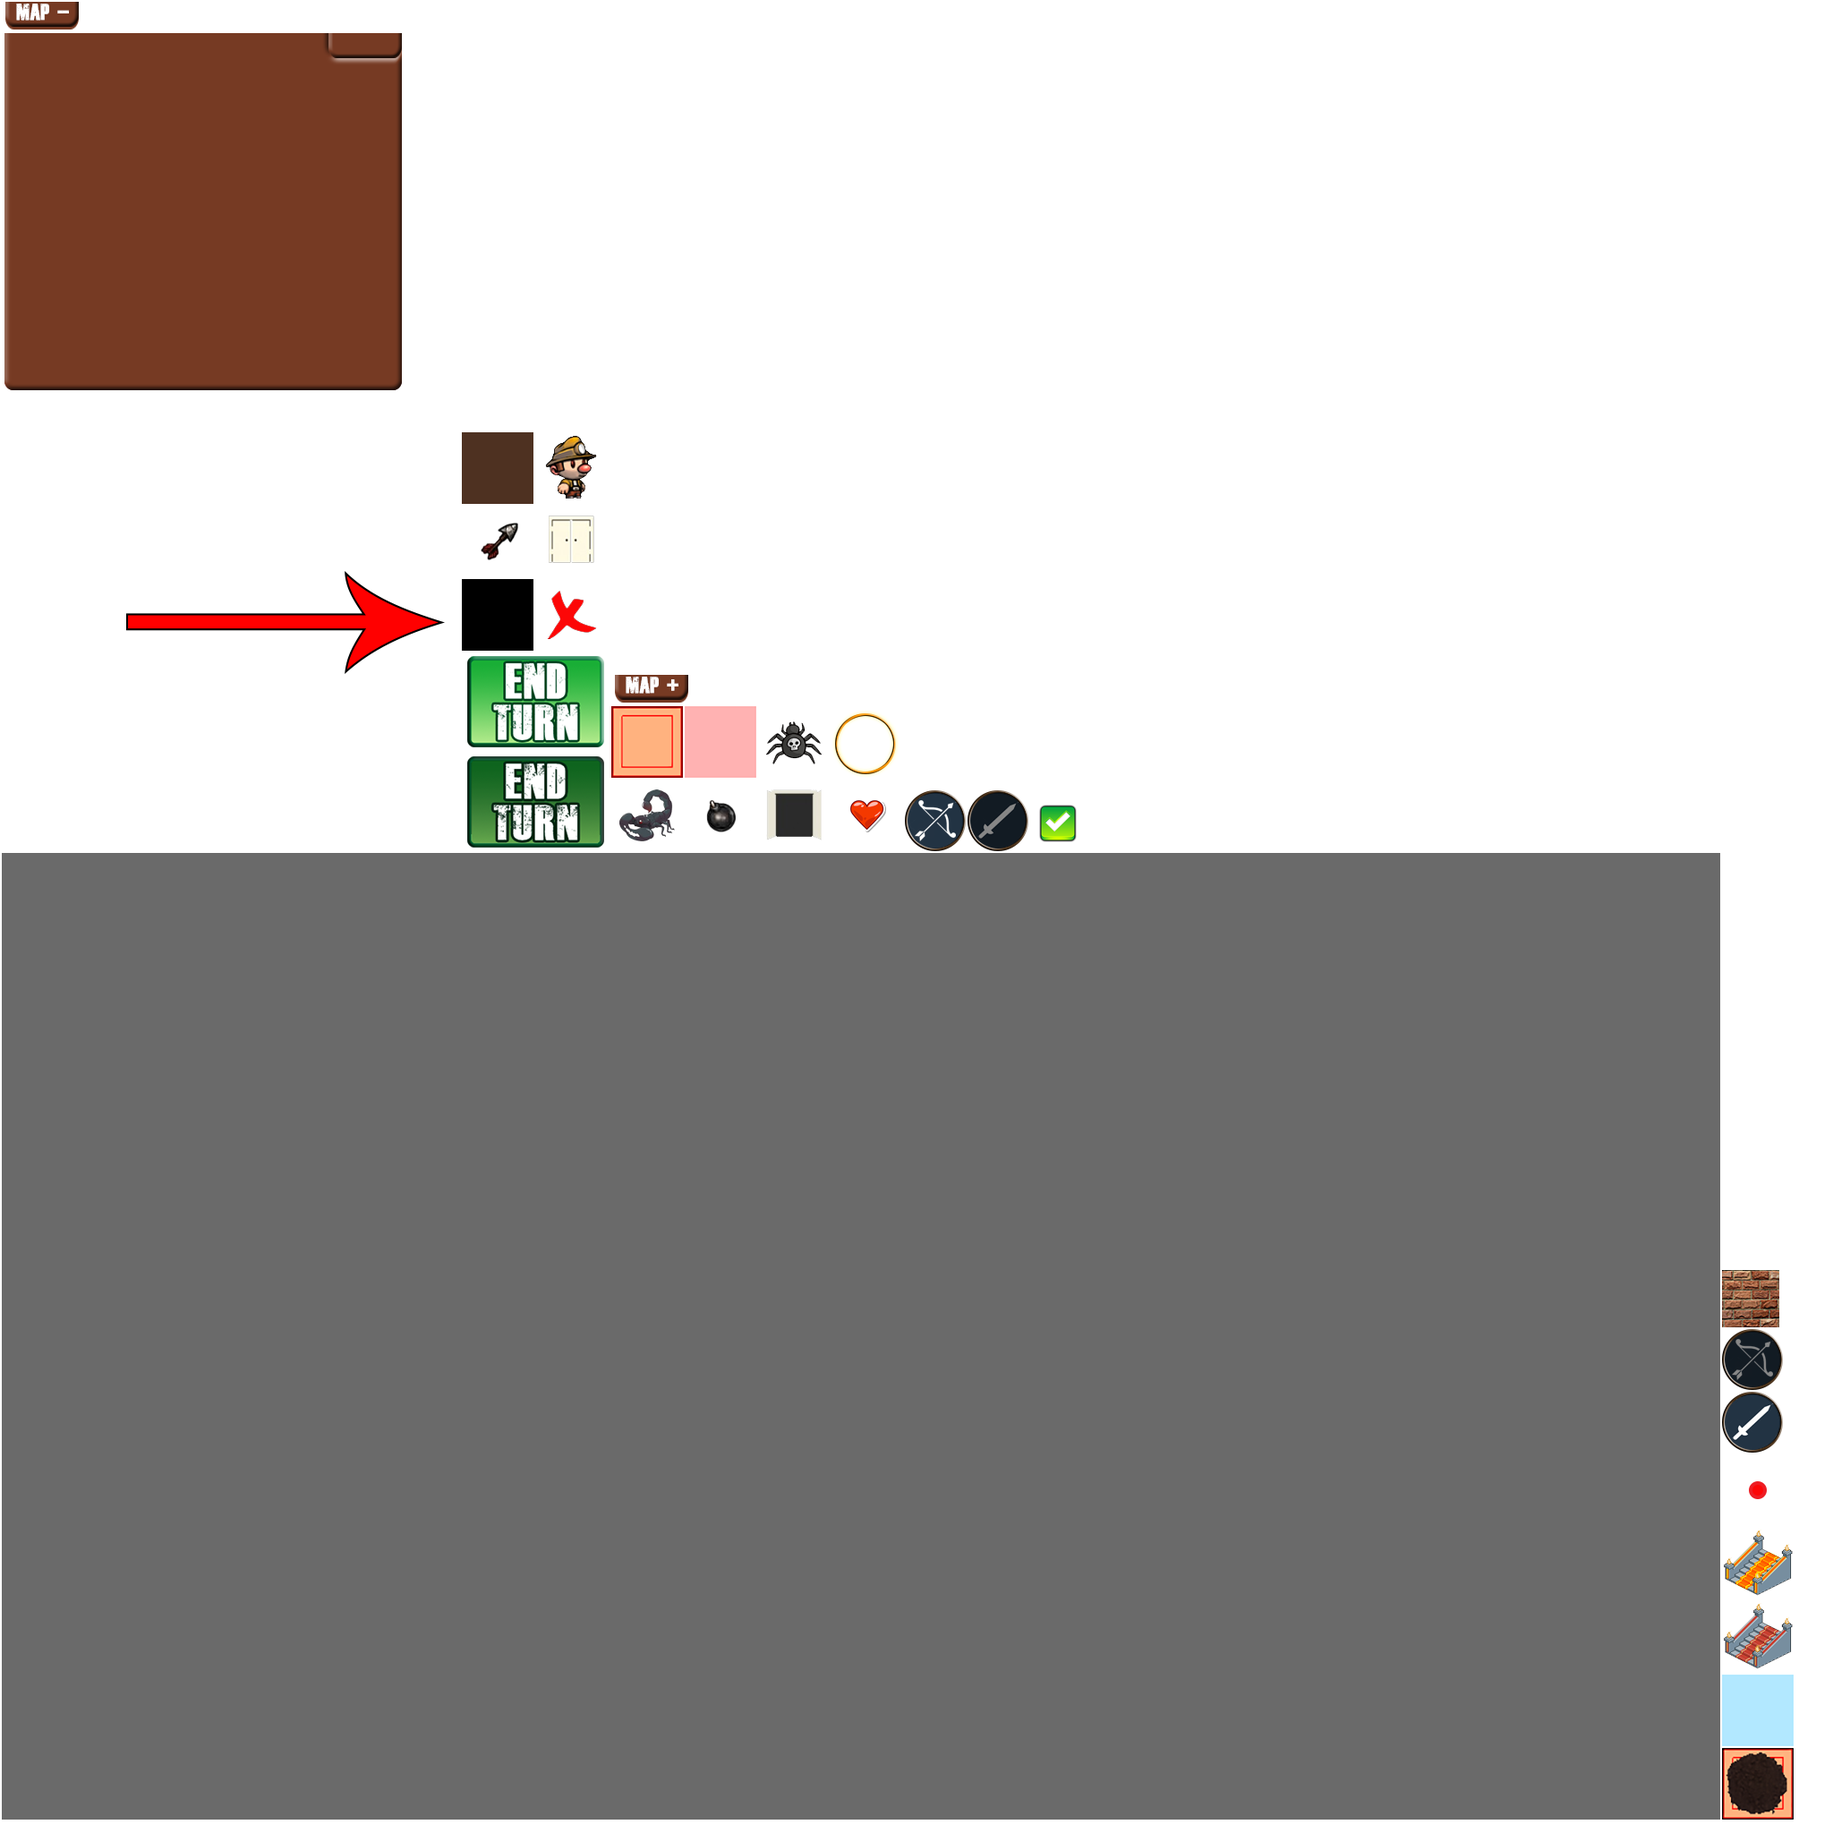
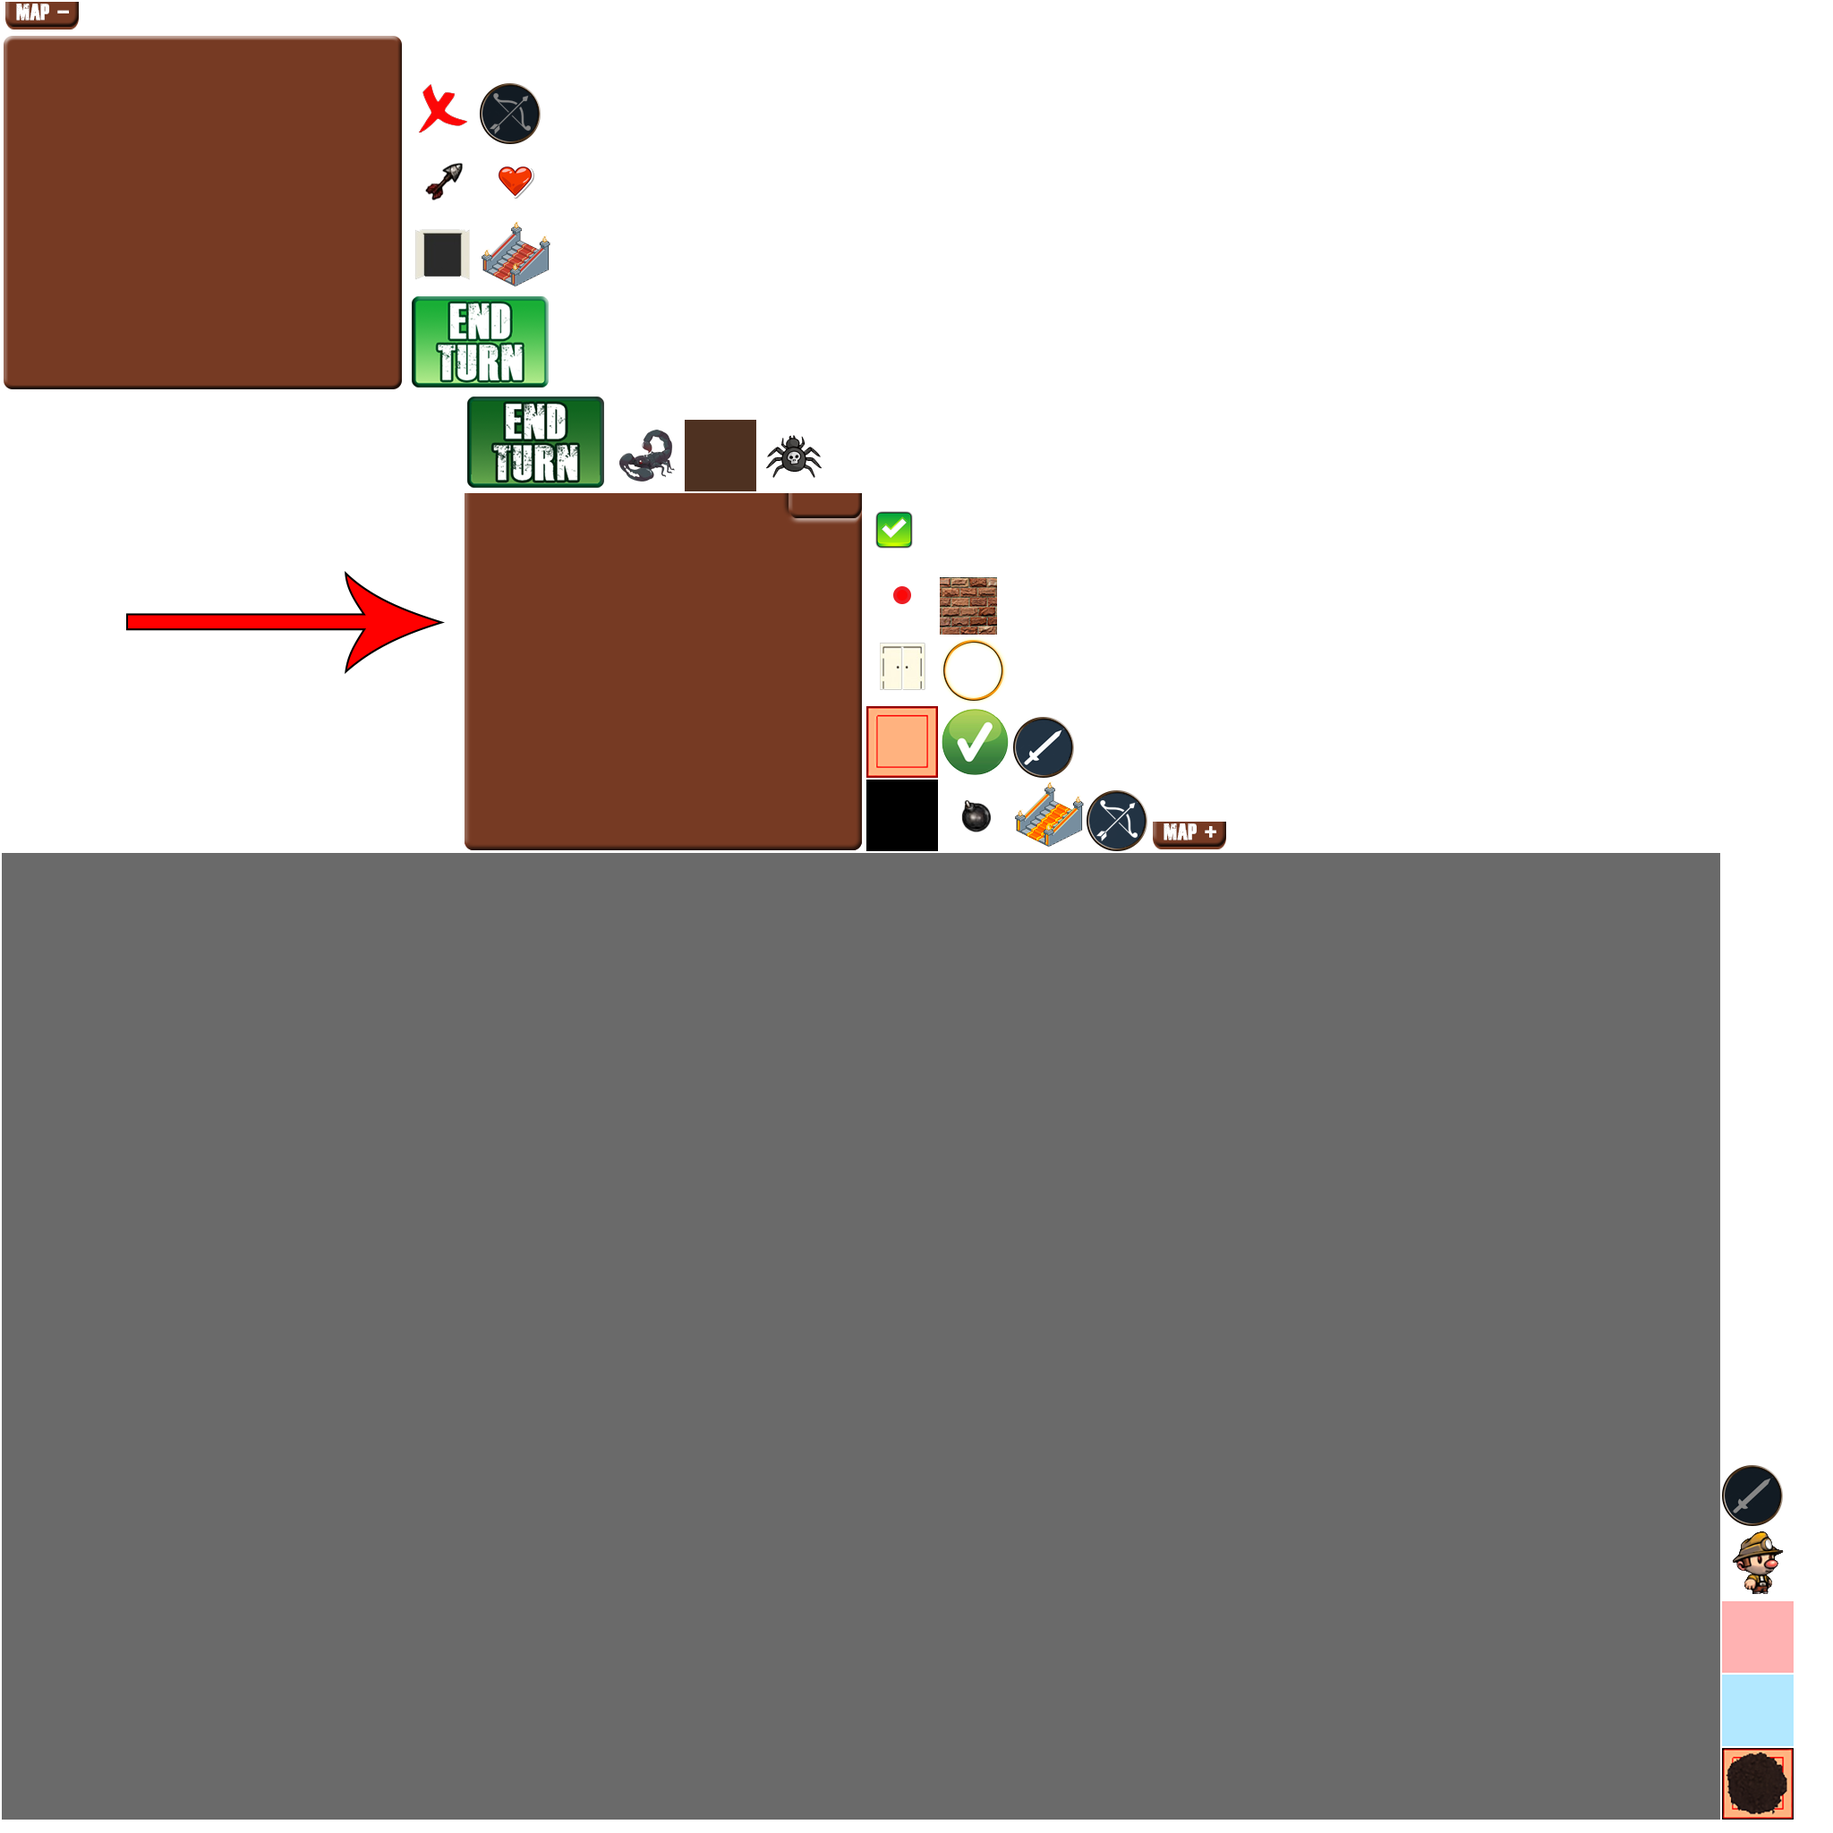
Improved the display of the level up

Changed region(s): [[0.2188, 0.0312, 0.6875, 0.4688], [0.9375, 0.6875, 1.0, 0.9375], [0.0, 0.0, 0.2188, 0.0312]]

diff --git a/core/src/com/dokkaebistudio/tacticaljourney/systems/ExperienceSystem.java b/core/src/com/dokkaebistudio/tacticaljourney/systems/ExperienceSystem.java
@@ -1,17 +1,40 @@
 package com.dokkaebistudio.tacticaljourney.systems;
 
+import java.util.ArrayList;
+import java.util.List;
+
 import com.badlogic.ashley.core.Entity;
 import com.badlogic.ashley.core.Family;
 import com.badlogic.ashley.systems.IteratingSystem;
-import com.badlogic.gdx.math.Vector2;
+import com.badlogic.gdx.math.Vector3;
+import com.dokkaebistudio.tacticaljourney.Assets;
+import com.dokkaebistudio.tacticaljourney.GameScreen;
+import com.dokkaebistudio.tacticaljourney.InputSingleton;
+import com.dokkaebistudio.tacticaljourney.components.AttackComponent;
+import com.dokkaebistudio.tacticaljourney.components.HealthComponent;
+import com.dokkaebistudio.tacticaljourney.components.display.SpriteComponent;
+import com.dokkaebistudio.tacticaljourney.components.display.TextComponent;
+import com.dokkaebistudio.tacticaljourney.components.display.TransformComponent;
 import com.dokkaebistudio.tacticaljourney.components.player.ExperienceComponent;
+import com.dokkaebistudio.tacticaljourney.components.player.PlayerComponent;
+import com.dokkaebistudio.tacticaljourney.factory.EntityFlagEnum;
 import com.dokkaebistudio.tacticaljourney.room.Room;
+import com.dokkaebistudio.tacticaljourney.room.RoomState;
 import com.dokkaebistudio.tacticaljourney.util.Mappers;
 
 public class ExperienceSystem extends IteratingSystem implements RoomSystem {
 	    
 	/** The current room. */
     private Room room;
+    
+    /** The list of entities used to display the level up notification. */
+    private List<Entity> levelUpEntities = new ArrayList<>();
+    
+    /** The button to close th levelup page. */
+    private Entity okButton;
+
+    /** The state before the level up state. */
+    private RoomState previousState;
 
     public ExperienceSystem(Room r) {
         super(Family.all(ExperienceComponent.class).get());
@@ -29,12 +52,84 @@ public class ExperienceSystem extends IteratingSystem implements RoomSystem {
     	ExperienceComponent expCompo = Mappers.experienceComponent.get(entity);
     	if (expCompo.hasLeveledUp()) {
     		expCompo.setLeveledUp(false);
+    		previousState = room.state;
+    		room.state = RoomState.LEVEL_UP;
     		
-    		room.entityFactory.createExpDisplayer(134351351, new Vector2(1,1));
-    		//Display stats improvement
-    		//TODO
+    		// Improve stats
+    		HealthComponent healthCompo = Mappers.healthComponent.get(entity);
+    		healthCompo.increaseMaxHealth(10);
+    		
+    		PlayerComponent playerComponent = Mappers.playerComponent.get(entity);
+
+    		AttackComponent attackComponent = Mappers.attackComponent.get(entity);
+    		attackComponent.setStrength(attackComponent.getStrength() + 1);
+    		
+    		AttackComponent skill1Attack = Mappers.attackComponent.get(playerComponent.getSkill1());
+    		skill1Attack.setStrength(skill1Attack.getStrength() + 1);
+    		AttackComponent skill2Attack = Mappers.attackComponent.get(playerComponent.getSkill2());
+    		skill2Attack.setStrength(skill2Attack.getStrength() + 1);
+
+    		
+    		
+    		// Display notif
+    		
+    		Entity background = room.entityFactory.createSprite(null, Assets.getTexture(Assets.lvl_up_background), EntityFlagEnum.LVL_UP_BACKGROUND, null);
+    		TransformComponent backgroundTransfo = Mappers.transfoComponent.get(background);
+    		SpriteComponent backgroundSprite = Mappers.spriteComponent.get(background);
+    		backgroundTransfo.pos.set(GameScreen.SCREEN_W/2 - backgroundSprite.getSprite().getWidth()/2,
+    				GameScreen.SCREEN_H/2 - backgroundSprite.getSprite().getHeight()/2,
+    				100);
+    		
+    		Entity title = room.entityFactory.createText(null, "LEVEL UP", null);
+    		TransformComponent titleTransfo = Mappers.transfoComponent.get(title);
+    		TextComponent titleText = Mappers.textComponent.get(title);
+    		titleTransfo.pos.set(GameScreen.SCREEN_W/2 - titleText.getWidth()/2, 700, 500); 
+    		
+    		Entity subtitle = room.entityFactory.createText(null, "Congratulations,\n you reached level " + expCompo.getLevel(), null);
+    		TransformComponent subtitleTransfo = Mappers.transfoComponent.get(subtitle);
+    		TextComponent subtitleText = Mappers.textComponent.get(subtitle);
+    		subtitleTransfo.pos.set(GameScreen.SCREEN_W/2 - subtitleText.getWidth()/2, 650, 500);
+    		
+    		Entity statsUp = room.entityFactory.createText(null, "Health increased by 10" +
+    		"\n" + "Strength increased by 1", null);
+    		TransformComponent statsUpTransfo = Mappers.transfoComponent.get(statsUp);
+    		TextComponent statsUpText = Mappers.textComponent.get(statsUp);
+    		statsUpTransfo.pos.set(GameScreen.SCREEN_W/2 - statsUpText.getWidth()/2, 550, 500);
+
+    		okButton = room.entityFactory.createOkButton(null);
+    		TransformComponent okTransfo = Mappers.transfoComponent.get(okButton);
+    		SpriteComponent okSprite = Mappers.spriteComponent.get(okButton);
+    		okTransfo.pos.set(GameScreen.SCREEN_W/2 - okSprite.getSprite().getWidth()/2, 350, 500);
+    		
+    		levelUpEntities.add(background);
+    		levelUpEntities.add(title);
+    		levelUpEntities.add(subtitle);
+    		levelUpEntities.add(statsUp);
+    		levelUpEntities.add(okButton);
     	}
     	
+    	
+    	if (room.state == RoomState.LEVEL_UP) {
+    		// Wait for player
+    		if (InputSingleton.getInstance().leftClickJustReleased) {
+    			Vector3 touchPoint = InputSingleton.getInstance().getTouchPoint();
+    			int x = (int) touchPoint.x;
+            	int y = (int) touchPoint.y;
+            	
+            	//Close the notification
+        		SpriteComponent okSprite = Mappers.spriteComponent.get(okButton);
+            	if (okSprite.containsPoint(x, y)) {
+            		for (Entity e : levelUpEntities) {
+            			room.engine.removeEntity(e);
+            		}
+            		okButton = null;
+            		
+            		room.state = previousState;
+            		previousState = null;
+            	}
+            	
+    		}
+    	}
     }
 
 }

diff --git a/core/src/com/dokkaebistudio/tacticaljourney/factory/EntityFactory.java b/core/src/com/dokkaebistudio/tacticaljourney/factory/EntityFactory.java
@@ -98,6 +98,31 @@ public final class EntityFactory {
     	return endTurnButton;
 	}
 	
+	
+	/**
+	 * Create the ok button.
+	 * @param pos the position
+	 * @return the ok button entity
+	 */
+	public Entity createOkButton(Vector2 pos) {
+		Entity okTurnButton = engine.createEntity();
+		okTurnButton.flags = EntityFlagEnum.OK_BUTTON.getFlag();
+
+		
+		TransformComponent transfoCompo = engine.createComponent(TransformComponent.class);
+		if (pos != null) {
+			transfoCompo.pos.set(pos.x, pos.y, 10);
+		}
+		okTurnButton.add(transfoCompo);
+		    	
+    	SpriteComponent spriteCompo = engine.createComponent(SpriteComponent.class);
+    	spriteCompo.setSprite(new Sprite(Assets.getTexture(Assets.btn_ok)));
+    	okTurnButton.add(spriteCompo);
+    	
+    	engine.addEntity(okTurnButton);
+    	return okTurnButton;
+	}
+	
 	/**
 	 * Create the end turn button.
 	 * @param pos the position
@@ -336,7 +361,9 @@ public final class EntityFactory {
 		sprite.add(spriteCompo);
 		
 		TransformComponent transfoCompo = engine.createComponent(TransformComponent.class);
-		transfoCompo.pos.set(pos);
+		if (pos != null) {
+			transfoCompo.pos.set(pos);
+		}
 		sprite.add(transfoCompo);
 		
 		if (room != null) {
@@ -359,7 +386,9 @@ public final class EntityFactory {
 		textTest.flags = EntityFlagEnum.TEXT.getFlag();
 
 		TransformComponent transfoCompo = new TransformComponent();
-		transfoCompo.pos.set(pos);
+		if (pos != null) {
+			transfoCompo.pos.set(pos);
+		}
 		textTest.add(transfoCompo);
 		
 		TextComponent tc = new TextComponent(Assets.font);

diff --git a/core/src/com/dokkaebistudio/tacticaljourney/components/HealthComponent.java b/core/src/com/dokkaebistudio/tacticaljourney/components/HealthComponent.java
@@ -9,7 +9,6 @@ import com.dokkaebistudio.tacticaljourney.components.display.GridPositionCompone
 import com.dokkaebistudio.tacticaljourney.components.display.TextComponent;
 import com.dokkaebistudio.tacticaljourney.components.display.TransformComponent;
 import com.dokkaebistudio.tacticaljourney.components.interfaces.MovableInterface;
-import com.dokkaebistudio.tacticaljourney.systems.display.RenderingSystem;
 import com.dokkaebistudio.tacticaljourney.util.Mappers;
 import com.dokkaebistudio.tacticaljourney.util.TileUtil;
 
@@ -30,6 +29,16 @@ public class HealthComponent implements Component, Poolable, MovableInterface {
 	private int hp;
 	
 	private Entity hpDisplayer;
+	
+	
+	/**
+	 * Increase the max hp by the given amount.
+	 * @param amount the amount to add.
+	 */
+	public void increaseMaxHealth(int amount) {
+		this.setMaxHp(this.maxHp + amount);
+		this.setHp(this.hp + amount);
+	}
 	
 	/**
 	 * Whether this entity is dead.

diff --git a/core/src/com/dokkaebistudio/tacticaljourney/components/player/ExperienceComponent.java b/core/src/com/dokkaebistudio/tacticaljourney/components/player/ExperienceComponent.java
@@ -62,10 +62,7 @@ public class ExperienceComponent implements Component,Poolable {
 		if (nextLevelXp > currentXp + amountToEarn) {
 			currentXp += amountToEarn;
 		} else {
-			level += 1;
-			currentXp = currentXp + amountToEarn - nextLevelXp;
-			nextLevelXp = 10 * level;
-			leveledUp = true;
+			this.levelUp(currentXp + amountToEarn - nextLevelXp);
 		}
 		
 		TextComponent levelText = Mappers.textComponent.get(levelDisplayer);
@@ -73,6 +70,18 @@ public class ExperienceComponent implements Component,Poolable {
 		
 		TextComponent expText = Mappers.textComponent.get(experienceDisplayer);
 		expText.setText("Exp " + currentXp + "/" + nextLevelXp);
+	}
+	
+	
+	/**
+	 * Level up.
+	 * @param startingXp the new amount of current XP.
+	 */
+	private void levelUp(int startingXp) {
+		level += 1;
+		currentXp = startingXp;
+		nextLevelXp = 10 * level;
+		leveledUp = true;
 	}
 	
 	

diff --git a/core/src/com/dokkaebistudio/tacticaljourney/room/Room.java b/core/src/com/dokkaebistudio/tacticaljourney/room/Room.java
@@ -86,11 +86,13 @@ public class Room extends EntitySystem {
 	
 	@Override
 	public void update(float deltaTime) {
-		GameTimeSingleton gtSingleton = GameTimeSingleton.getInstance();
-		gtSingleton.updateElapsedTime(deltaTime);
-		
-		TextComponent text = Mappers.textComponent.get(timeDisplayer);
-		text.setText("Time: " + String.format("%.1f", gtSingleton.getElapsedTime()));
+		if (!state.isPaused()) {
+			GameTimeSingleton gtSingleton = GameTimeSingleton.getInstance();
+			gtSingleton.updateElapsedTime(deltaTime);
+			
+			TextComponent text = Mappers.textComponent.get(timeDisplayer);
+			text.setText("Time: " + String.format("%.1f", gtSingleton.getElapsedTime()));
+		}
 	}
 	
 	

diff --git a/core/src/com/dokkaebistudio/tacticaljourney/room/RoomState.java b/core/src/com/dokkaebistudio/tacticaljourney/room/RoomState.java
@@ -34,7 +34,10 @@ public enum RoomState {
 	ENEMY_MOVE_DESTINATION_SELECTED,
 	ENEMY_MOVING,
 	ENEMY_END_MOVEMENT,
-	ENEMY_ATTACK;
+	ENEMY_ATTACK,
+	
+	
+	LEVEL_UP;
 	
 	
 	
@@ -90,5 +93,14 @@ public enum RoomState {
 	public boolean canEndTurn() {
 		return this == RoomState.PLAYER_MOVE_TILES_DISPLAYED
     			|| this == RoomState.PLAYER_MOVE_DESTINATION_SELECTED;
+	}
+	
+	
+	/**
+	 * Whether the game is paused or not.
+	 * @return true if in a state where the game is paused.
+	 */
+	public boolean isPaused() {
+		return this == RoomState.LEVEL_UP;
 	}
 }

diff --git a/core/src/com/dokkaebistudio/tacticaljourney/Assets.java b/core/src/com/dokkaebistudio/tacticaljourney/Assets.java
@@ -62,6 +62,9 @@ public class Assets {
 	public static final String btn_end_turn = "btn-end-turn";
 	public static final String btn_end_turn_pushed = "btn-end-turn-pushed";
 	
+	public static final String lvl_up_background = "hud_lvl_up_background";
+	public static final String btn_ok = "btn-ok";
+	
 	public static final String btn_skill_active = "btn-skill-selected";
 	public static final String btn_skill_attack = "btn-skill-slash";
 	public static final String btn_skill_attack_pushed = "btn-skill-slash-pushed";

diff --git a/core/src/com/dokkaebistudio/tacticaljourney/systems/display/RenderingSystem.java b/core/src/com/dokkaebistudio/tacticaljourney/systems/display/RenderingSystem.java
@@ -74,7 +74,7 @@ public class RenderingSystem extends IteratingSystem implements RoomSystem {
 					return (int)Math.signum(Mappers.gridPositionComponent.get(entityA).zIndex - Mappers.gridPositionComponent.get(entityB).zIndex);
 				}
 				
-				return (int) Math.signum(Mappers.transfoComponent.get(entityB).pos.z - Mappers.transfoComponent.get(entityA).pos.z);
+				return (int) Math.signum(Mappers.transfoComponent.get(entityA).pos.z - Mappers.transfoComponent.get(entityB).pos.z);
 			}
 		};
 		

diff --git a/core/src/com/dokkaebistudio/tacticaljourney/factory/EnemyFactory.java b/core/src/com/dokkaebistudio/tacticaljourney/factory/EnemyFactory.java
@@ -98,7 +98,7 @@ public final class EnemyFactory {
 		enemyEntity.add(healthComponent);
 		
 		ExpRewardComponent expRewardCompo = engine.createComponent(ExpRewardComponent.class);
-		expRewardCompo.setExpGain(6);
+		expRewardCompo.setExpGain(11);
 		enemyEntity.add(expRewardCompo);
 		
 		ParentRoomComponent parentRoomComponent = engine.createComponent(ParentRoomComponent.class);

diff --git a/core/src/com/dokkaebistudio/tacticaljourney/components/player/PlayerComponent.java b/core/src/com/dokkaebistudio/tacticaljourney/components/player/PlayerComponent.java
@@ -9,9 +9,6 @@ public class PlayerComponent implements Component {
 	/** The engine that managed entities.*/
 	public PooledEngine engine;
 	
-	/** The number of tiles the player can move. */
-	public int health;
-	
 	/** The button to end the current turn. */
 	private Entity endTurnButton;
 	

diff --git a/core/src/com/dokkaebistudio/tacticaljourney/factory/EntityFlagEnum.java b/core/src/com/dokkaebistudio/tacticaljourney/factory/EntityFlagEnum.java
@@ -21,6 +21,10 @@ public enum EntityFlagEnum {
 	EXP_DISPLAYER(507),
 	SKILL1_BUTTON(508),
 	SKILL2_BUTTON(509),
+	
+	OK_BUTTON(510),
+	LVL_UP_BACKGROUND(511),
+	
 	ARROW_NB(550),
 	BOMB_NB(551),
 	
